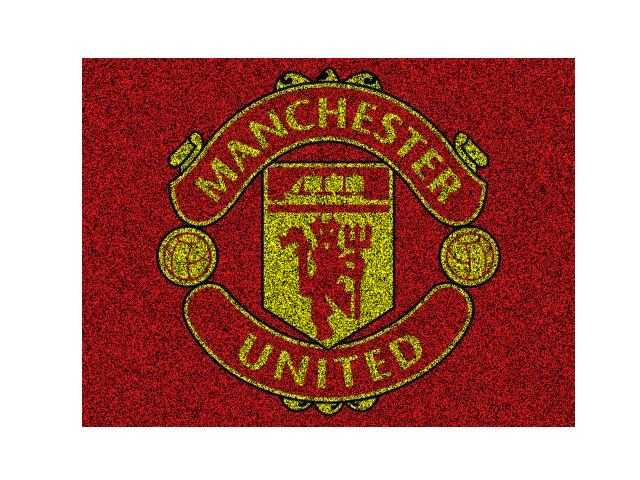
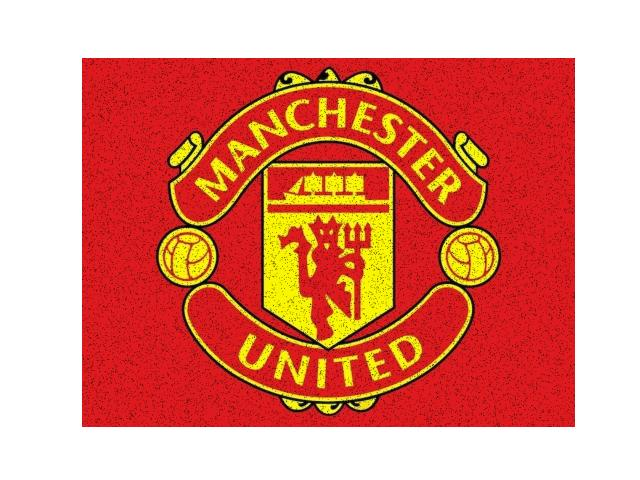
add results

diff --git a/README.md b/README.md
@@ -1,2 +1,3 @@
 # Dictionary-Inpainting
-Image inpainting using dictionary learning
+Image inpainting using dictionary learning and sparse representation, inspired from the paper <a href="https://www.researchgate.net/publication/220736614_Image_inpainting_via_sparse_representation">Image Inpaiting via Sparse Representation</a>
+
